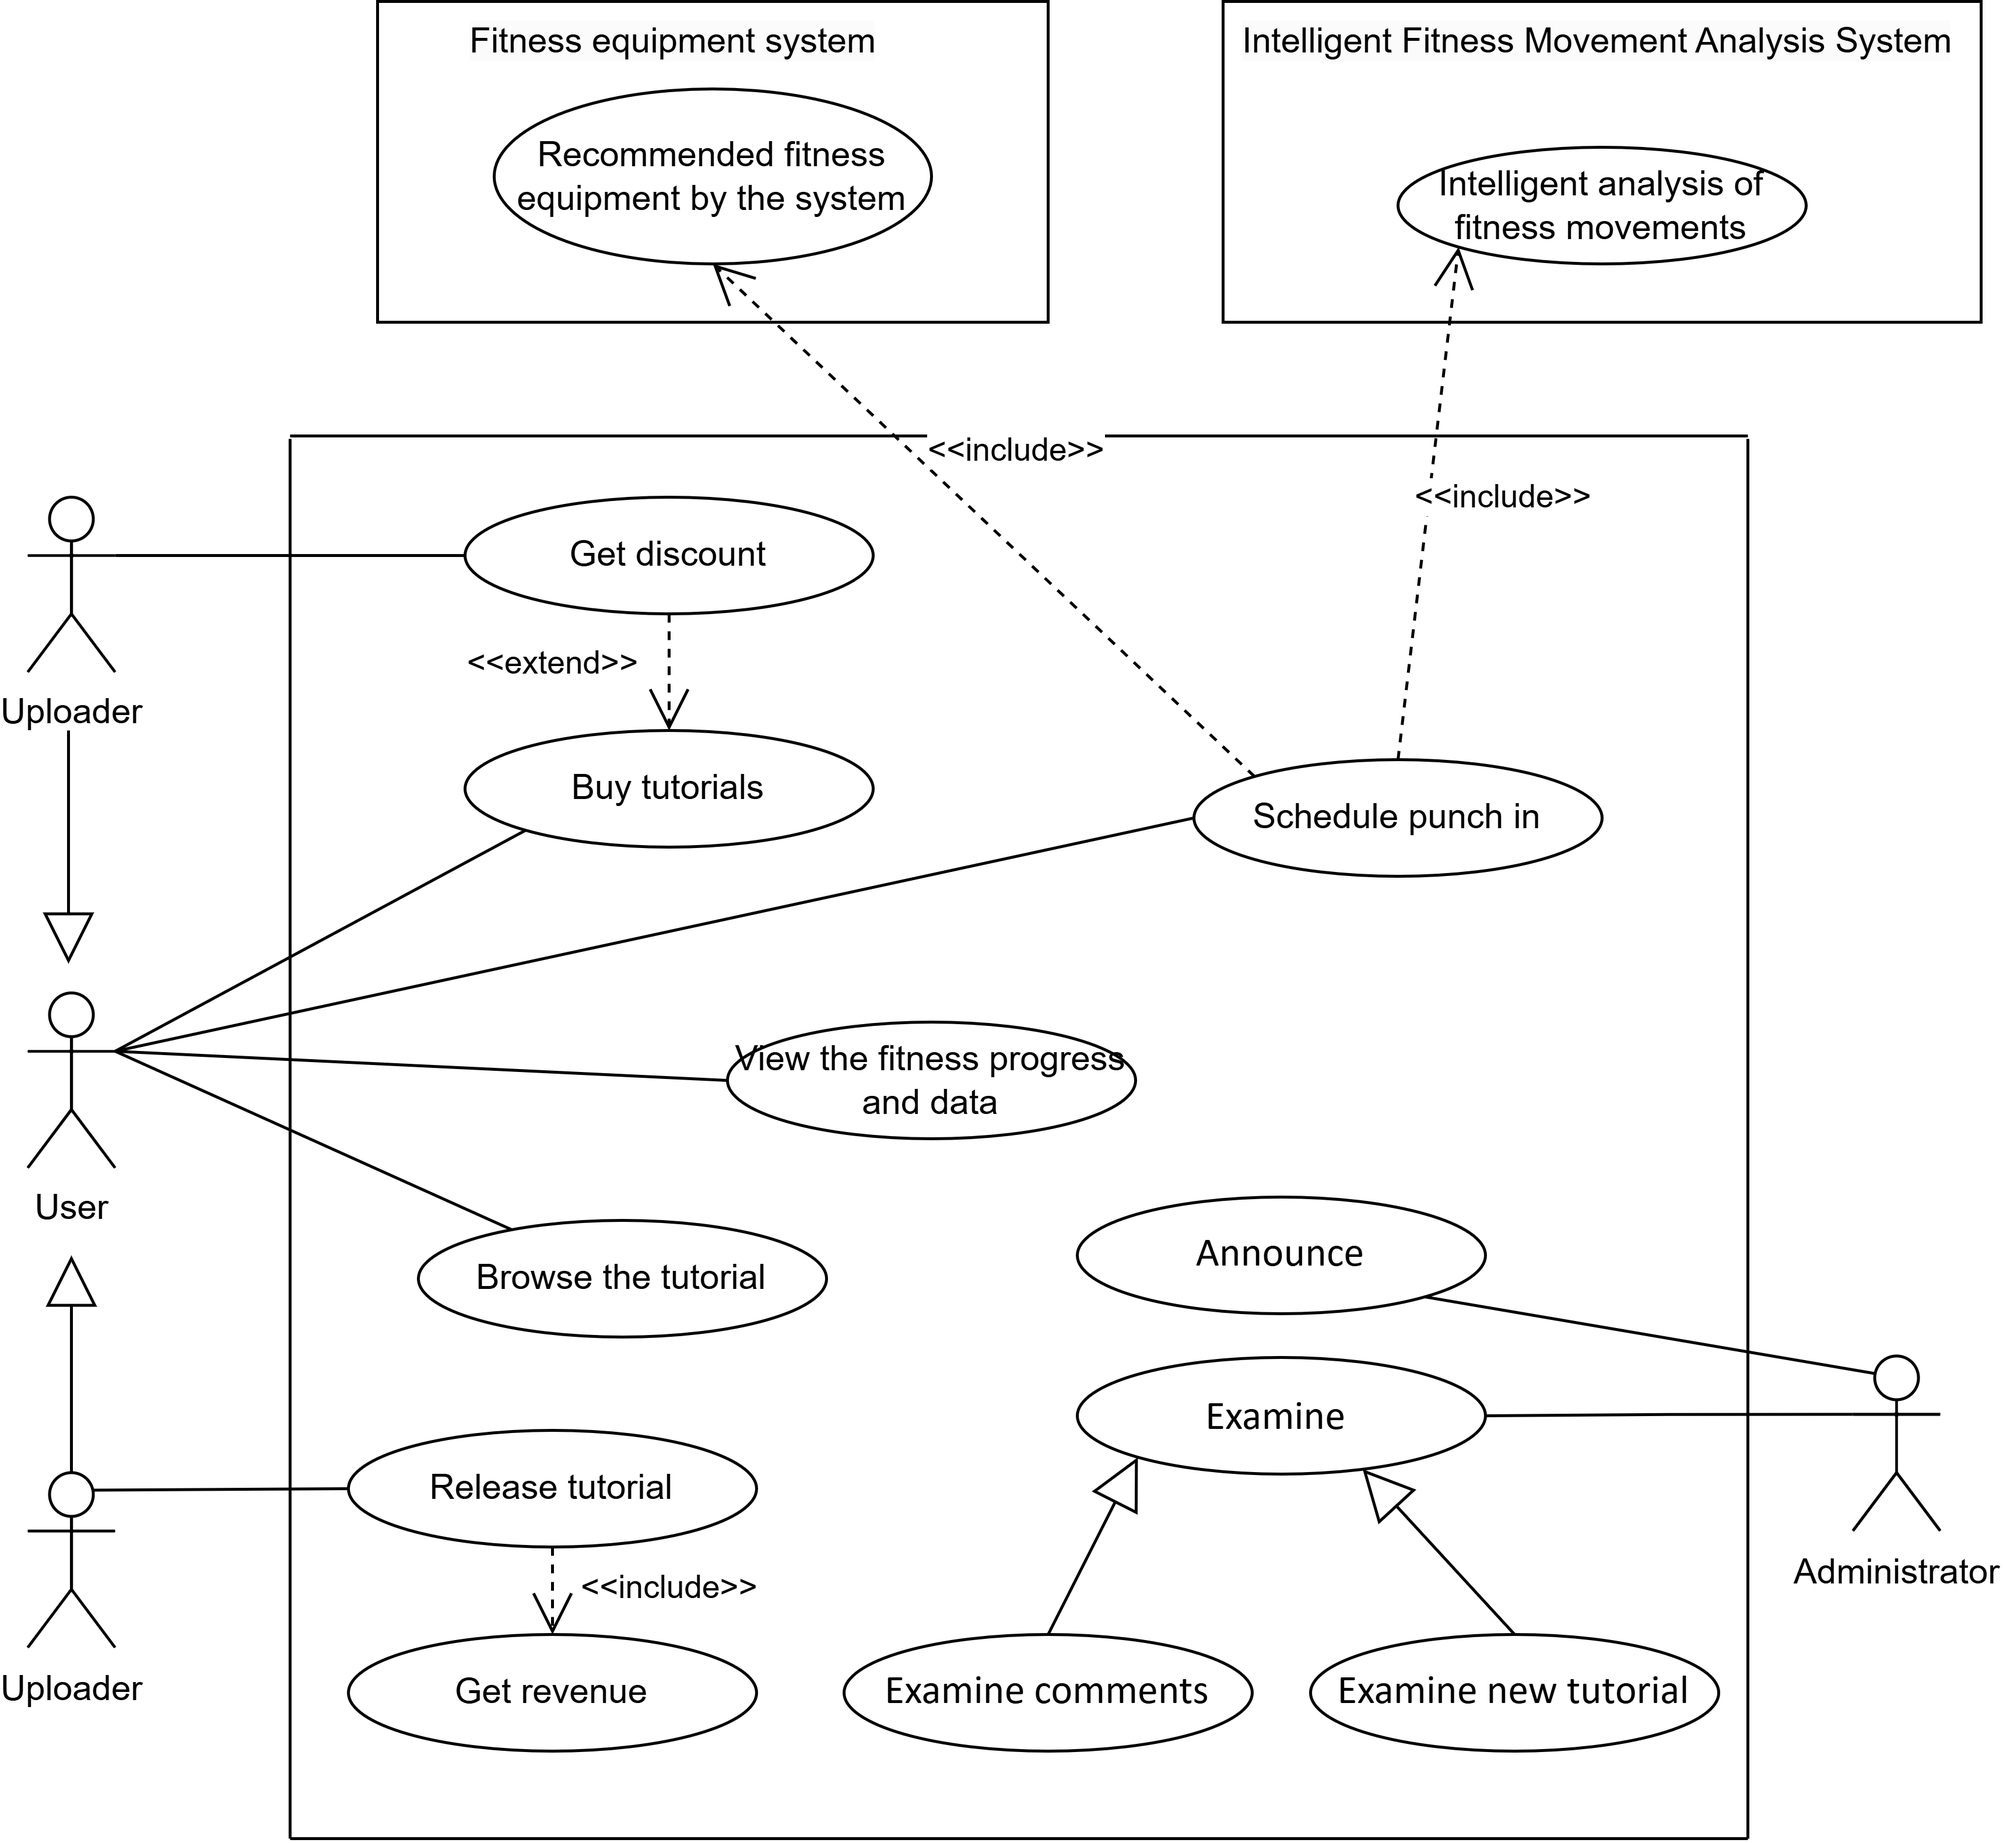
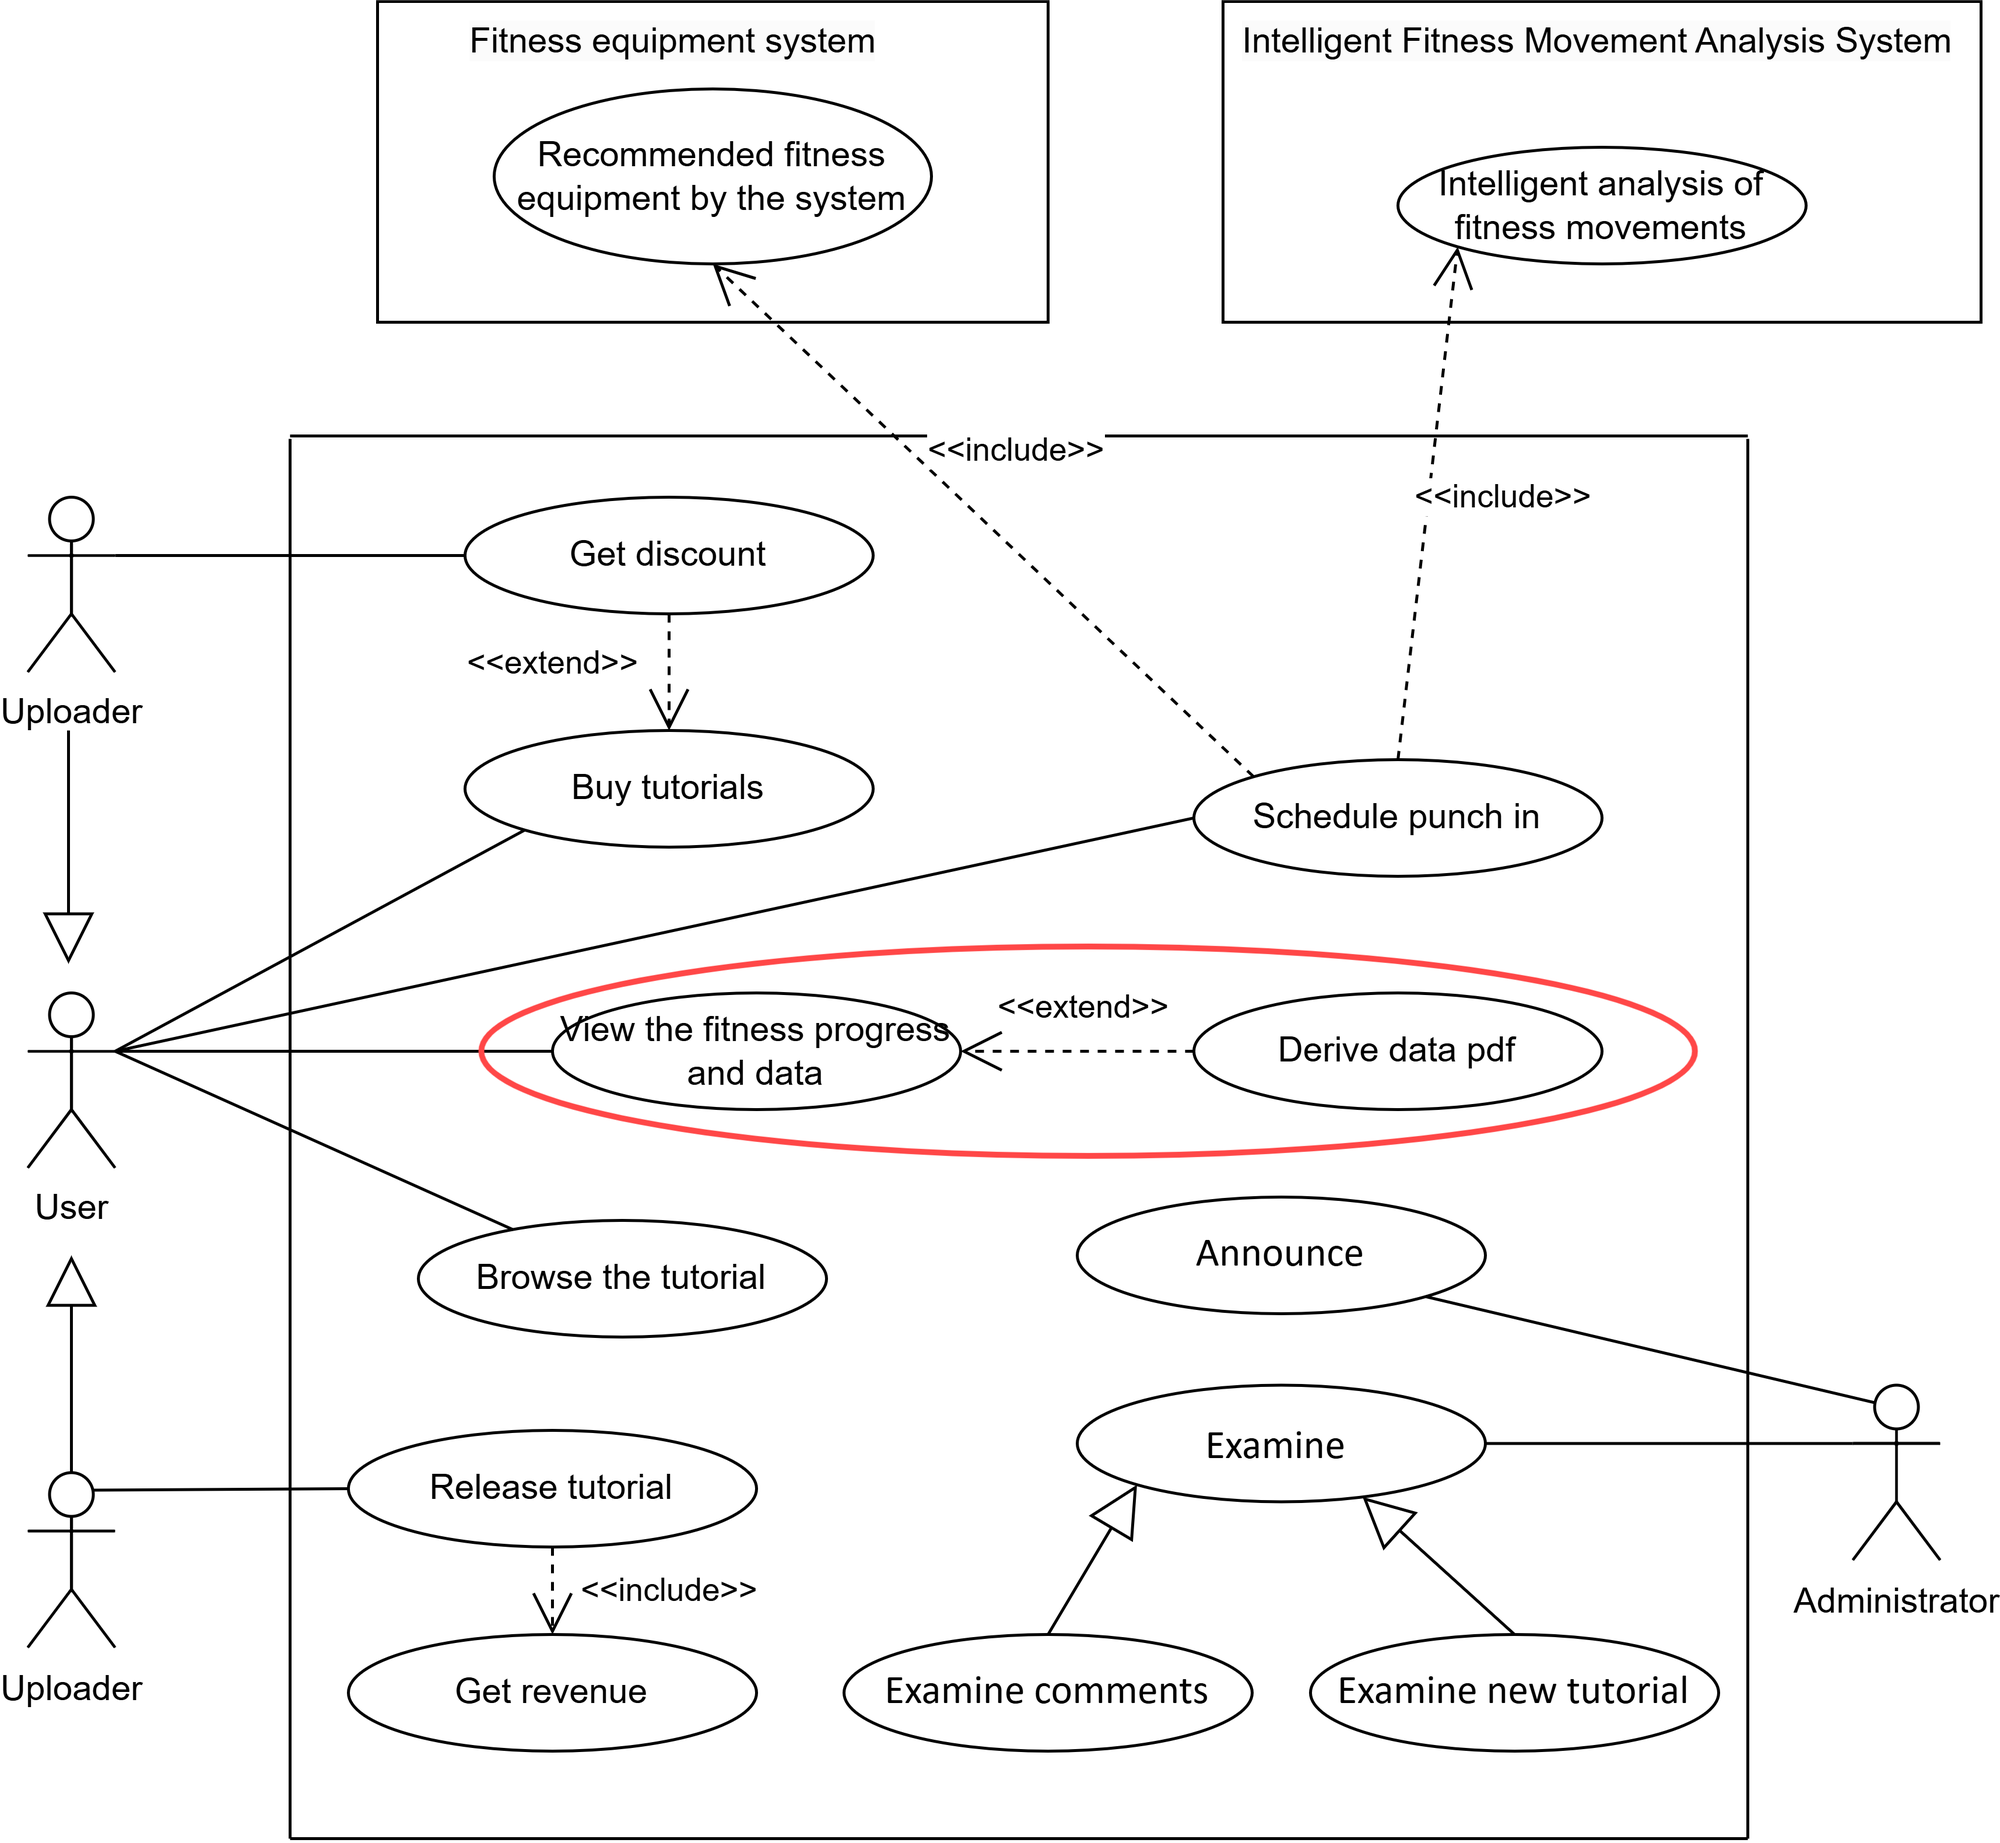
ljk-11.12-Add Section8
ljk-11.12-Add Section8

diff --git a/Assignment2/Assignment2.md b/Assignment2/Assignment2.md
@@ -448,13 +448,13 @@ Use Case: **View the fitness progress and data**
 
 | **USE CASE**         | View the fitness progress and data                           |
 | -------------------- | ------------------------------------------------------------ |
-| **ID**               | ***UC06***                                                   |
+| **ID**               | ***UC03***                                                   |
 | **Specification**    | This use case describes how the user can track their fitness progress and view data analysis in the tutorial section. Users can check their progress over different dates, see various physical indicators, and view/export detailed exercise reports. |
 | **Actors**           | **User**, **System**                                         |
-| **Pre-condition**    | 1. The user has logged into the system. 2. The user has accessed the tutorial content page. |
-| **Basic Path**       | 1. The user clicks on the data analysis button on the tutorial content page. <br />2. The system opens a floating window for data analysis and progress tracking. <br />3. The user selects a date to view specific fitness progress for that day. <br />4. The system displays the user’s fitness data, including relevant physical indicators like weight and body fat percentage, and recent exercise data (exercise time, aerobic, and anaerobic time). <br />5. The user clicks on an option to export a PDF report for a more detailed analysis. <br />6. The system generates and downloads the PDF report. |
+| **Pre-condition**    | 1. The user has logged into the system. <br />2. The user has accessed the tutorial content page. |
+| **Basic Path**       | 1. The user clicks on the data analysis button on the tutorial content page. <br />2. The system opens a floating window for data analysis and progress tracking. <br />3. The user selects a date to view specific fitness progress for that day. <br />4. The system displays the user’s fitness data, including relevant physical indicators like weight and body fat percentage, and recent exercise data (exercise time, aerobic, and anaerobic time). <br />5. The user can clicks on an option to export a PDF report for a more detailed analysis alternatively . <br />6. The system generates and downloads the PDF report. |
 | **Alternative Path** | **No Data Available for Selected Date**: 1. If no fitness data is available for the selected date, the system displays a message indicating "No data available for this date." |
-| **Post-condition**   | The user successfully views fitness progress, data analysis, and exports a detailed report. |
+| **Post-condition**   | The user successfully views fitness progress, data analysis.If user need, he/she can exports a detailed report. |
 
 
 # 6. Updated Snapshot
@@ -474,15 +474,15 @@ Users can quickly compare options at a glance, and if they want more information
 
 Figure 1:
 
-![image-20241112185655642](D:\SAD\SAD-2024fall-PingSun\Assignment2\assets\DietPlanUI1.png)
+![image-20241112185655642](.\assets\DietPlanUI1.png)
 
 Figure 2:
 
-![DietPlanUI2](D:\SAD\SAD-2024fall-PingSun\Assignment2\assets\DietPlanUI2.png)
+![DietPlanUI2](.\assets\DietPlanUI2.png)
 
 Figure 3:
 
-![DietPlanUI3](D:\SAD\SAD-2024fall-PingSun\Assignment2\assets\DietPlanUI3.png)
+![DietPlanUI3](.\assets\DietPlanUI3.png)
 
 We modified the statistics function on the basis of the previous one to count the number of days of completed plans and the number of days of skipped plans in the month, and added a progress icon for the user to view intuitively. In addition, we also marked the calendar with a rose-red colour block to identify the ‘Completed Plans’, and a hollow block to identify the ‘Skipped Plans ' on the calendar to enhance the interactivity of the system (Figure 1).
 The new diet plan page introduces the `Dishes preparation tutorial` function, which provides users with tutorials on how to make some healthy and simple dishes. At the bottom of the diet plan page, the system will display the recipes that are intelligently recommended by the system for the user, and the user can click the button at the bottom right corner of the corresponding recipes to view the details, including the amount of ingredients, cooking steps, and picture instructions (Figure 2).
@@ -502,6 +502,10 @@ In this section, we have added new progress tracking and data analysis functions
 
 # 7. Correction of errors
 
+The use case diagram of the fitness tutorial section was modified according to the teacher's opinion after the last defense. Now the latest use case diagram is in 5.4. Please see that part for details.
+
+![UpdateTutorialSectionUseCase](.\assets\UpdateTutorialSectionUseCase.png)
+
 For the problems pointed out by the instructor in the midterm defence, we have corrected our previous work.
 For the Diet module `Implement the diet plan` activity diagram in Assignment 1, we misused the synchronisation bar (black solid line) in the previous assignment. In fact, set`Skip Plan` and set `Complete Plan` are two parallel paths that do not need to reach the `Update adherence statistics` at the same time, so we change the activity diagram to a parallel relationship as follows:
 
@@ -513,9 +517,63 @@ Similarly, in the `Publish diet plan` activity diagram, there is only a parallel
 
 # 8. Open Questions
 
+For the next phase of the intelligent fitness platform, here are some key challenges to explore and design tasks to tackle:
 
+## 8.1 Challenges
 
++ **User Behavior Analysis and Personalized Recommendations**
 
+  Develop refined analytics to understand user fitness preferences and habits, enabling personalized recommendations. This requires optimized data collection, analysis models, and recommendation algorithms.
+
++ **Data Privacy and Security**
+
+  As the platform gathers more user data, ensuring data privacy compliance is essential, especially with sensitive health and body metrics. Implement secure storage, encrypted transmission, and strict access control measures.
+
++ **AI Movement Recognition and Feedback Accuracy**
+
+  Improve AI accuracy in recognizing and providing feedback on movement quality, ensuring consistency across different environments, whether indoors or outdoors.
+
++ **Multi-Device Compatibility and Synchronization**
+
+  Enable platform access across various devices (e.g., smartphones, tablets, smartwatches) with real-time data synchronization, enhancing the user experience.
+
++ **User Engagement and Retention**
+
+  Increase user retention through effective incentives and gamification, such as rewards, achievements, and social interaction features that encourage frequent engagement.
+
+## 8.2 Design Tasks
+
++ **Personalized Training Plan Optimization Module**
+
+  Design and implement a module that auto-generates and adjusts training plans based on users’ history, fitness goals, and current health metrics, including adaptive load adjustments and suggested training times.
+
++ **Advanced Data Analysis Report Features**
+
+  Expand report capabilities with more analytical dimensions (e.g., monthly trends, muscle growth rate), including intuitive charts and visualizations to help users understand their fitness progress.
+
++ **Social Interaction and Challenges**
+
+  Introduce social interaction features such as friend challenges, group fitness plans, and a leaderboard to encourage user interaction and engagement.
+
++ **Multilingual and Localization Support**
+
+  Design support for multiple languages and adapt the platform to fit local fitness habits and preferences, including interface translation and regional customization.
+
++ **Expanded AI Assistant Functions**
+
+  Extend the AI assistant’s capabilities to include dietary suggestions, sleep management, and other health aspects to enhance users’ overall fitness and wellness.
+
++ **Dynamic Load Adjustment and Real-Time Feedback**
+
+  Create a real-time load adjustment system based on metrics like heart rate and respiratory rate, providing dynamic intensity adjustments and guidance to help users avoid injuries and overtraining.
+
++ **Social Media and Content Sharing Features**
+
+  Design features that allow users to share fitness data, achievements, and specific training content on social media, promoting fitness achievements and encouraging user sharing.
+
++ **User Feedback and Continuous Improvement Loop**
+
+  Establish a feedback collection mechanism for users to report issues or suggest improvements, and periodically optimize the system based on this feedback to keep functionality up-to-date.
 
 # 9. The Annotated References
 
@@ -523,13 +581,13 @@ Similarly, in the `Publish diet plan` activity diagram, there is only a parallel
 
  
 
-# 9. Contributes
+# 10. Contributes
 
 In the implementation process of the project, all members actively discuss and participate seriously, according to their respective interests and ability, to complete the task on time and with high quality. Harmonious team atmosphere, smooth communication and high efficiency. The division of labor and contribution of our group are like the following:
 
-|          Members           | Part 1 | Part 2 | Part 3 | Part 4 | Part 5 | Part 6 | Part 7 | Part 8 | SCORE WEIGHT |
-| :------------------------: | :----: | :----: | :----: | :----: | :----: | :----: | :----: | :----: | :----------: |
-| 2154286 <br>Weicheng Zheng |   √    |   √    |        |   √    |        |   √    |   √    |   √    |     25%      |
-|  2253744 <br/>Juekai Lin   |   √    |        |   √    |   √    |   √    |   √    |        |   √    |     25%      |
-|   2153085<br/> Lixin Ma    |   √    |   √    |        |   √    |        |   √    |   √    |   √    |     25%      |
-|  2154284 <br/>Junhao Yang  |   √    |        |   √    |   √    |        |   √    |        |   √    |     25%      |
+|          Members           | Part 1 | Part 2 | Part 3 | Part 4 | Part 5 | Part 6 | Part 7 | Part 8 | Part9 | SCORE WEIGHT |
+| :------------------------: | :----: | :----: | :----: | :----: | :----: | :----: | :----: | :----: | :---: | :----------: |
+| 2154286 <br>Weicheng Zheng |   √    |   √    |        |   √    |        |   √    |   √    |   √    |   √   |     25%      |
+|  2253744 <br/>Juekai Lin   |   √    |        |   √    |   √    |   √    |   √    |        |   √    |   √   |     25%      |
+|   2153085<br/> Lixin Ma    |   √    |   √    |        |   √    |        |   √    |   √    |   √    |   √   |     25%      |
+|  2154284 <br/>Junhao Yang  |   √    |        |   √    |   √    |        |   √    |        |   √    |   √   |     25%      |
